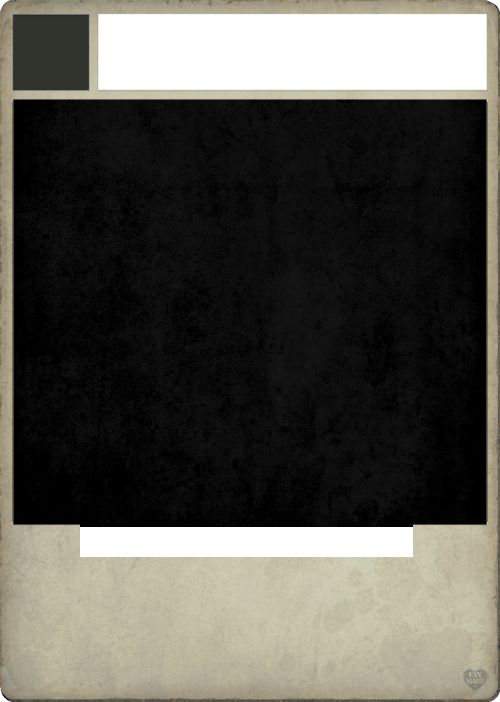
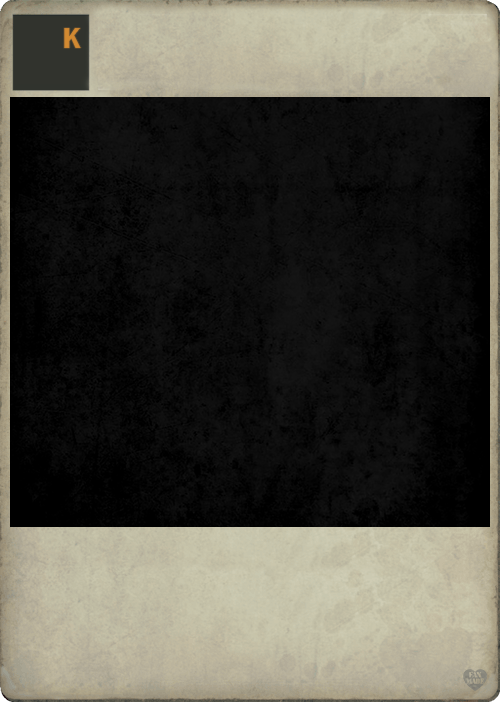
修改

Changed region(s): [[0.0, 0.0, 1.0, 0.7479], [0.15, 0.7479, 0.84, 0.8077]]

diff --git a/styles.css b/styles.css
@@ -62,35 +62,56 @@ body {
 
 .card .cost-fuel {
     position: absolute;
-    top: 20px;
-    left: 20px;
-    font-size: 18px;
-    font-weight: bold;
+    top: 30px;
+    left: 30px;
+    display: flex;
+    align-items: flex-end;
+    gap: 5px;
     z-index: 2;
     font-family: 'Kards数字复合字体', sans-serif;
 }
 
-.card .card-image {
+.cost-value {
+    font-size: 50px;
+    line-height: 1;
+    color: #bec1af;
+}
+
+.fuel-value {
+    font-size: 25px;
+    line-height: 1;
+    color: #bec1af;
     position: relative;
-    width: 100%;
-    height: 450px;
-    background-color: #ddd;
-    margin: 60px 0;
-    border-radius: 10px;
+    top: -2px;
 }
 
 .card .unit-stats {
     position: absolute;
-    bottom: 10px;
-    left: 50%; /* 居中 */
-    transform: translateX(-50%); /* 居中对齐 */
-    color: white;
+    bottom: 165px;
+    left: 0;
+    right: 0;
     display: flex;
-    font-family: 'Kards数字复合字体', sans-serif;
-    font-size: 40px;
-    justify-content: center;
-    gap: 220px; /* 调整数字间距 */
+    justify-content: space-between;
     z-index: 3;
+}
+
+.card .unit-stats .attack,
+.card .unit-stats .defense {
+    position: absolute;
+    bottom: 0;
+    width: 120px;
+    text-align: center;
+    font-size: 40px;
+    color: #c8cdbb;
+    font-family: 'Kards数字复合字体', sans-serif;
+}
+
+.card .unit-stats .attack {
+    left: 75px;
+}
+
+.card .unit-stats .defense {
+    right: 75px;
 }
 
 .card .unit-stats .unit-name {
@@ -102,8 +123,7 @@ body {
 }
 
 .card .unit-type {
-    position: absolute;
-    bottom: 10px;
+    display: none;
     left: 50%;
     transform: translateX(-50%);
     font-size: 18px;
@@ -135,4 +155,29 @@ button {
     padding: 10px 20px;
     font-size: 16px;
     cursor: pointer;
+}
+
+.info-container {
+    position: absolute;
+    bottom: 10px;
+    left: 10px;
+    right: 10px;
+    height: 130px;
+    display: flex;
+    flex-direction: column;
+    justify-content: center;
+    align-items: center;
+    overflow: hidden;
+}
+
+.attributes, .effects {
+    margin: 2px 0;
+    font-size: 16px;
+    line-height: 1.3;
+    text-align: center;
+    flex-shrink: 0;
+    transition: font-size 0.3s;
+    word-break: break-all;
+    color: #4e4e49;
+    max-width: 90%;
 }

diff --git a/script.js b/script.js
@@ -103,7 +103,8 @@ function spinWheel() {
     updateCard(cardElements.effects, cardData.effects);
     
     document.querySelector('.card h2').textContent = cardData.unitName;
-    document.querySelector('.cost-fuel').innerHTML = `${cardData.cost} <br> ${cardData.fuel}`;
+    document.getElementById('cost').textContent = cardData.cost;
+    document.getElementById('fuel').textContent = cardData.fuel;
 
     // 设置卡牌背景
     const card = document.getElementById('card');
@@ -127,6 +128,21 @@ function spinWheel() {
     unitTypeImage.src = `assets/${cardData.unitType}.png`; // 根据单位类型获取图片
     unitTypeImage.style.width = '100%'; // 图片填充整个卡片元素
     card.appendChild(unitTypeImage);
+
+    function adjustTextSize() {
+        const container = document.querySelector('.info-container');
+        const attributes = document.getElementById('attributes');
+        const effects = document.getElementById('effects');
+        
+        let fontSize = 16;
+        while ((attributes.scrollHeight + effects.scrollHeight + 10 > container.clientHeight) && fontSize > 10) {
+            fontSize--;
+            attributes.style.fontSize = `${fontSize}px`;
+            effects.style.fontSize = `${fontSize}px`;
+        }
+    }
+
+    setTimeout(adjustTextSize, 50);
 } 
 
 // 初始化

diff --git a/index.html b/index.html
@@ -10,20 +10,22 @@
     <div class="container">
         <div class="card" id="card">
             <h2>空白卡牌</h2>
-            <div class="cost-fuel" style="position: absolute; top: 10px; right: 10px;">
-                <p id="cost">-</p>
-                <p id="fuel">-</p>
+            <div class="cost-fuel">
+                <span class="cost-value" id="cost">-</span>
+                <span class="fuel-value" id="fuel">-</span>
             </div>
             <div class="card-image">
                 <div class="unit-stats">
-                    <p id="attack">-</p>
-                    <p id="defense">-</p>
+                    <p class="attack" id="attack">-</p>
+                    <p class="defense" id="defense">-</p>
                 </div>
                 <p class="unit-type" id="unitType">-</p>
             </div>
             <p id="country" style="position: absolute; top: 10px; right: 10px; display: none;">-</p>
-            <p class="attributes" id="attributes">-</p>
-            <p class="effects" id="effects">-</p>
+            <div class="info-container">
+                <p class="attributes" id="attributes">-</p>
+                <p class="effects" id="effects">-</p>
+            </div>
         </div>
         <div class="wheel" id="wheel">
             <button>点击生成</button>
